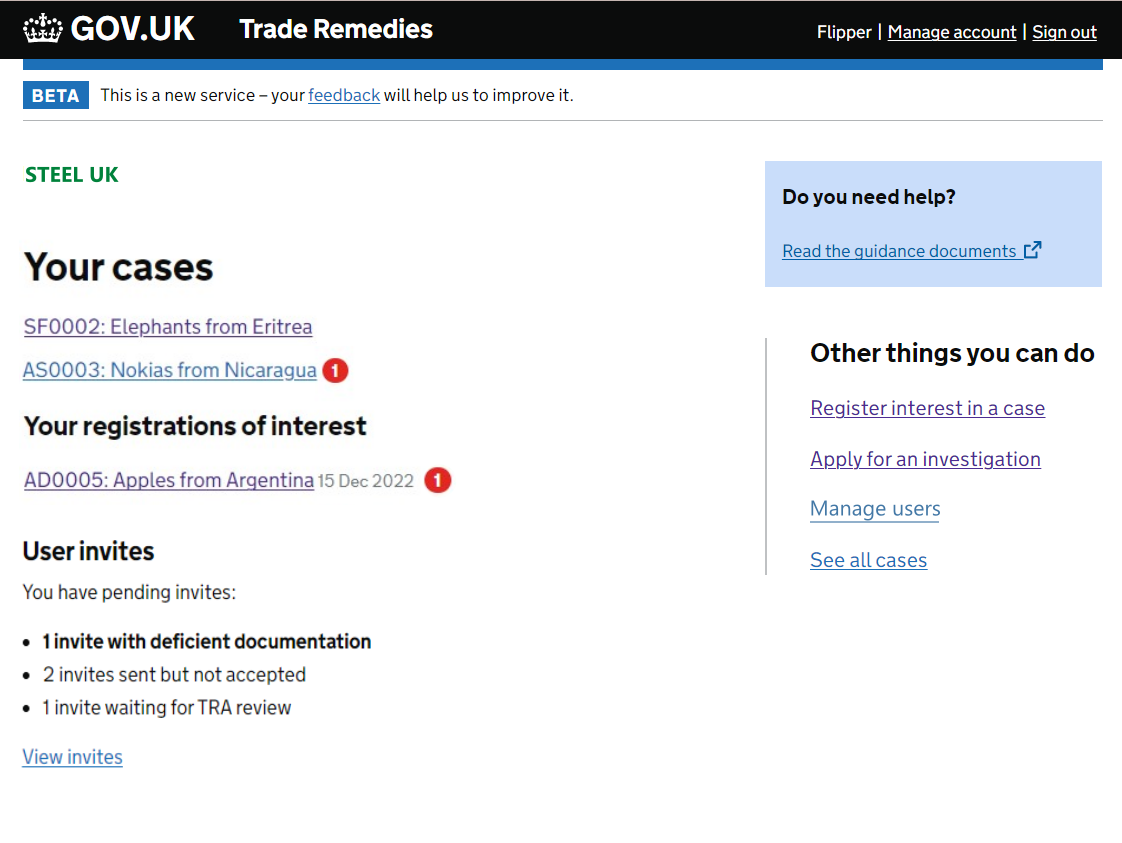
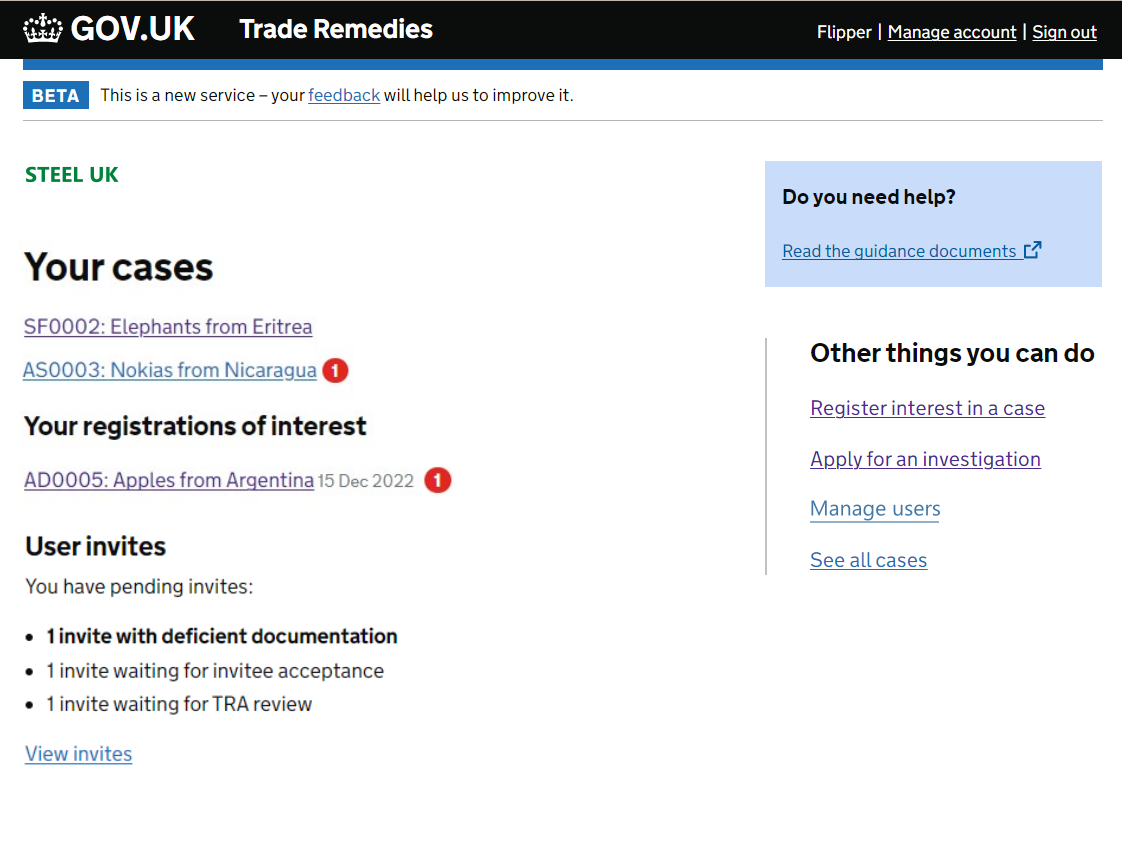
invites

Changed region(s): [[0.0, 0.7402, 0.3743, 0.9253], [0.0, 0.6168, 0.2184, 0.7094]]

diff --git a/app/views/index.html b/app/views/index.html
@@ -119,7 +119,7 @@
                     <span class="app-task-list__tag" id="reginterest-direct-status">In progress</span><br>
                     <span class="app-task-list__task-name">
                       <a href="public-site/dashboard-invite-v1-5?who-signin=org&tasklist-type=invite-rep&invite-rep-task=Deficient&invite-loa-task=def&invite-case-task=complete&invite-which-org-task=complete&loa-download=no" class="govuk-link--no-visited-state" aria-describedby="signin-status">
-                        Invite Rep - deficiency notice v1.5
+                        Invite Rep - all invite status v1.5
                       </a>                     
                     </span>
                     <span class="app-task-list__tag" id="reginterest-direct-status">In progress</span><br>

diff --git a/app/views/public-site/dashboard.html b/app/views/public-site/dashboard.html
@@ -307,6 +307,7 @@
                               1 invite with deficient documentation
                             </strong>
                           </li>
+                          <li>1 invite waiting for invitee acceptance</li>
                           <li>1 invite waiting for TRA review</li>
                         </ul>
                         <p><a href="/public-site/manage-users/manage-org-user#manage-invites" class="govuk-link--no-visited-state">View invites</a></p>
